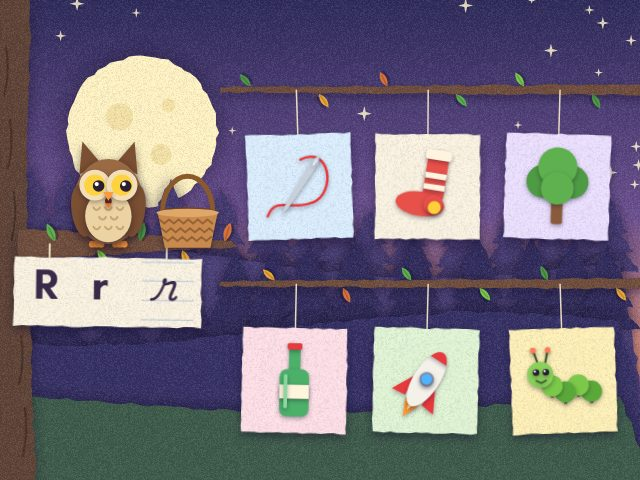
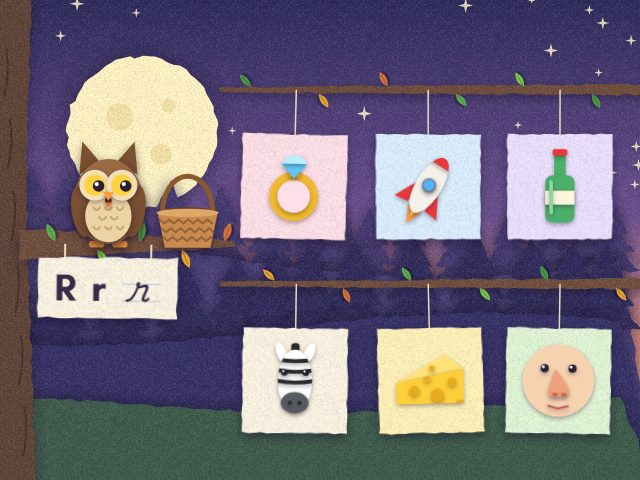
Klankenjacht: letter sign sized to each letter
The sign measures its three letters and shows only the writing lines the
letter needs (l-tops for tall letters, p-legs for letters with a leg), so
it is centred with even margins. Letters a bit smaller, more paper
around them, and more room above the listen button.

diff --git a/games/klankenjacht.html b/games/klankenjacht.html
@@ -246,7 +246,7 @@ const PICS={
 // O is the owl size; the cards sit in a grid next to (landscape) or below (portrait) the owl.
 let W=0,H=0,DPR=1,O=100,ox=0,oy=0,branchY=0,trunkW=30,bx=0,bTop=0,BW=60,BH=40;
 let cols=3,rows=2,gx0=0,gy0=0,cellW=0,cellH=0,S=100,twigY=0,portrait=false,zw=0;
-let signX=0,signY=0,signW=0,signH=0;
+let signX=0,signY=0,signW=0,signH=0,signMax=0; // signH follows the letter (see makeSign), signMax is the room for the tallest one
 let scene=null, grain=null;
 function resize(){
   DPR=Math.min(2,window.devicePixelRatio||1);
@@ -271,10 +271,13 @@ function resize(){
   BW=O*0.62; BH=O*0.36; bx=ox+O*0.82; bTop=branchY-BH*0.9;
   // the letter sign hangs under the owl's branch (in portrait: in the gap above the cards)
   signY=branchY+O*0.14;
-  signH=portrait?clamp(twigY-signY-14,44,O*0.75):Math.min(O*0.7,zw*0.9/2.7);
-  signW=signH*2.7; signX=clamp(ox,signW/2+8,W-signW/2-8);
+  // landscape: leave room under the sign for the listen button (84 px) and a clear gap (the tallest sign is ~1.05 signMax)
+  signMax=portrait?clamp(twigY-signY-14,44,O*0.8):Math.max(44,Math.min(O*0.8,zw*0.9/2.3,(H-signY-130)/1.05));
+  signW=signMax*2.3; signH=signMax; // the real size follows the letter, see makeSign
+  // portrait: keep clear of the listen button at the right
+  signX=clamp(ox,signW/2+8,portrait?W-96-16-signW/2:W-signW/2-8);
   // the "listen again" button: under the sign in landscape, at the right of the basket in portrait
-  const lx=portrait?W-54:ox, ly=portrait?branchY-O*0.1:Math.min(H-54,signY+signH+54);
+  const lx=portrait?W-54:ox, ly=portrait?branchY-O*0.1:Math.min(H-54,signY+signMax*1.05+76);
   listenBtn.style.left=lx+'px'; listenBtn.style.top=ly+'px';
   if(!grain) grain=makeGrain();
   buildScene(); buildLeaves(); signImg=cur?makeSign():null;
@@ -682,21 +685,32 @@ function drawCards(flying){
 const SCRIPT='"Playwrite BE VLG",cursive', PRINT='"Teachers","Baloo 2",system-ui,sans-serif';
 let signImg=null, signT=9, signBump=0;
 function makeSign(){
-  const pad=12, cg=document.createElement('canvas'); cg.width=Math.ceil((signW+pad*2)*DPR); cg.height=Math.ceil((signH+pad*2)*DPR);
+  // Sizes come from the script font size fs; the print letters get the same n-height as the script.
+  // In Playwrite the n-height and the p-legs are both 0.52 em and the l-tops 1.02 em.
+  const fs=signMax*0.41, ps=fs*0.52/0.45, xh=fs*0.52, k=cur.k, K=k.toUpperCase();
+  g=document.createElement('canvas').getContext('2d');
+  const ink=(font,ch)=>{ g.font=font; const m=g.measureText(ch); return [m.actualBoundingBoxAscent||0,m.actualBoundingBoxDescent||0,m.width]; };
+  const PF='700 '+Math.round(ps)+'px '+PRINT, SF='400 '+Math.round(fs)+'px '+SCRIPT;
+  const ink3=[ink(PF,K),ink(PF,k),ink(SF,k)];
+  // the writing lines this letter needs: n-tops and baseline always, l-tops for tall letters, p-legs for letters with a leg
+  const tall=ink3[2][0]>xh*1.4, leg=ink3[2][1]>xh*0.4;
+  const lines=[-xh,0]; if(tall) lines.unshift(-fs*1.02); if(leg) lines.push(xh);
+  // the card fits the ink and the lines, with the same margin all around and the same gap between the letters
+  const top=Math.max(xh,tall?fs*1.02:0,...ink3.map(i=>i[0])), bot=Math.max(leg?xh:0,...ink3.map(i=>i[1]));
+  const m=fs*0.5, gap=fs*0.45, pad=12, lw=Math.max(ink3[2][2]+fs*0.6,fs*1.2);
+  const xK=m+ink3[0][2]/2, xk=m+ink3[0][2]+gap+ink3[1][2]/2, lx=m+ink3[0][2]+gap+ink3[1][2]+gap;
+  signW=lx+lw+m; signH=top+bot+m*2;
+  const cg=document.createElement('canvas'); cg.width=Math.ceil((signW+pad*2)*DPR); cg.height=Math.ceil((signH+pad*2)*DPR);
   g=cg.getContext('2d'); g.scale(DPR,DPR); g.translate(pad,pad);
   paperShadow(10,4);
-  g.fillStyle='#fbf3e2'; tornPath([0,0,signW,0,signW,signH,0,signH],signH*0.12,signH*0.012); g.fill();
+  g.fillStyle='#fbf3e2'; tornPath([0,0,signW,0,signW,signH,0,signH],signMax*0.12,signMax*0.012); g.fill();
   noShadow(); g.save(); g.clip(); g.fillStyle=grain; g.fillRect(0,0,signW,signH); g.restore();
-  // school writing lines behind the script letter. In Playwrite the n-height and the p-legs are both 0.52 em
-  // and the l-tops 1.02 em, so the lines sit on: l-tops, n-tops, baseline, p-legs
-  const lx=signW*0.68, lw=signW*0.28, base=signH*0.61, fs=signH*0.54, xh=fs*0.52;
-  g.strokeStyle='rgba(61,127,214,0.35)'; g.lineWidth=Math.max(1,signH*0.012);
-  for(const y of [base-fs*1.02,base-xh,base,base+xh]){ g.beginPath(); g.moveTo(lx,y); g.lineTo(lx+lw,y); g.stroke(); }
-  g.textAlign='center'; g.textBaseline='alphabetic';
-  g.fillStyle='#3a2a4a'; g.font='700 '+Math.round(signH*0.62)+'px '+PRINT;
-  g.fillText(cur.k.toUpperCase(),signW*0.17,base); g.fillText(cur.k,signW*0.46,base);
-  g.font='400 '+Math.round(fs)+'px '+SCRIPT;
-  g.fillText(cur.k,lx+lw/2,base);
+  const base=m+top;
+  g.strokeStyle='rgba(61,127,214,0.35)'; g.lineWidth=Math.max(1,signMax*0.012);
+  for(const y of lines){ g.beginPath(); g.moveTo(lx,base+y); g.lineTo(lx+lw,base+y); g.stroke(); }
+  g.textAlign='center'; g.textBaseline='alphabetic'; g.fillStyle='#3a2a4a';
+  g.font=PF; g.fillText(K,xK,base); g.fillText(k,xk,base);
+  g.font=SF; g.fillText(k,lx+lw/2,base);
   g=c; return cg;
 }
 // the script font may arrive after the first sign was drawn: redraw it then
